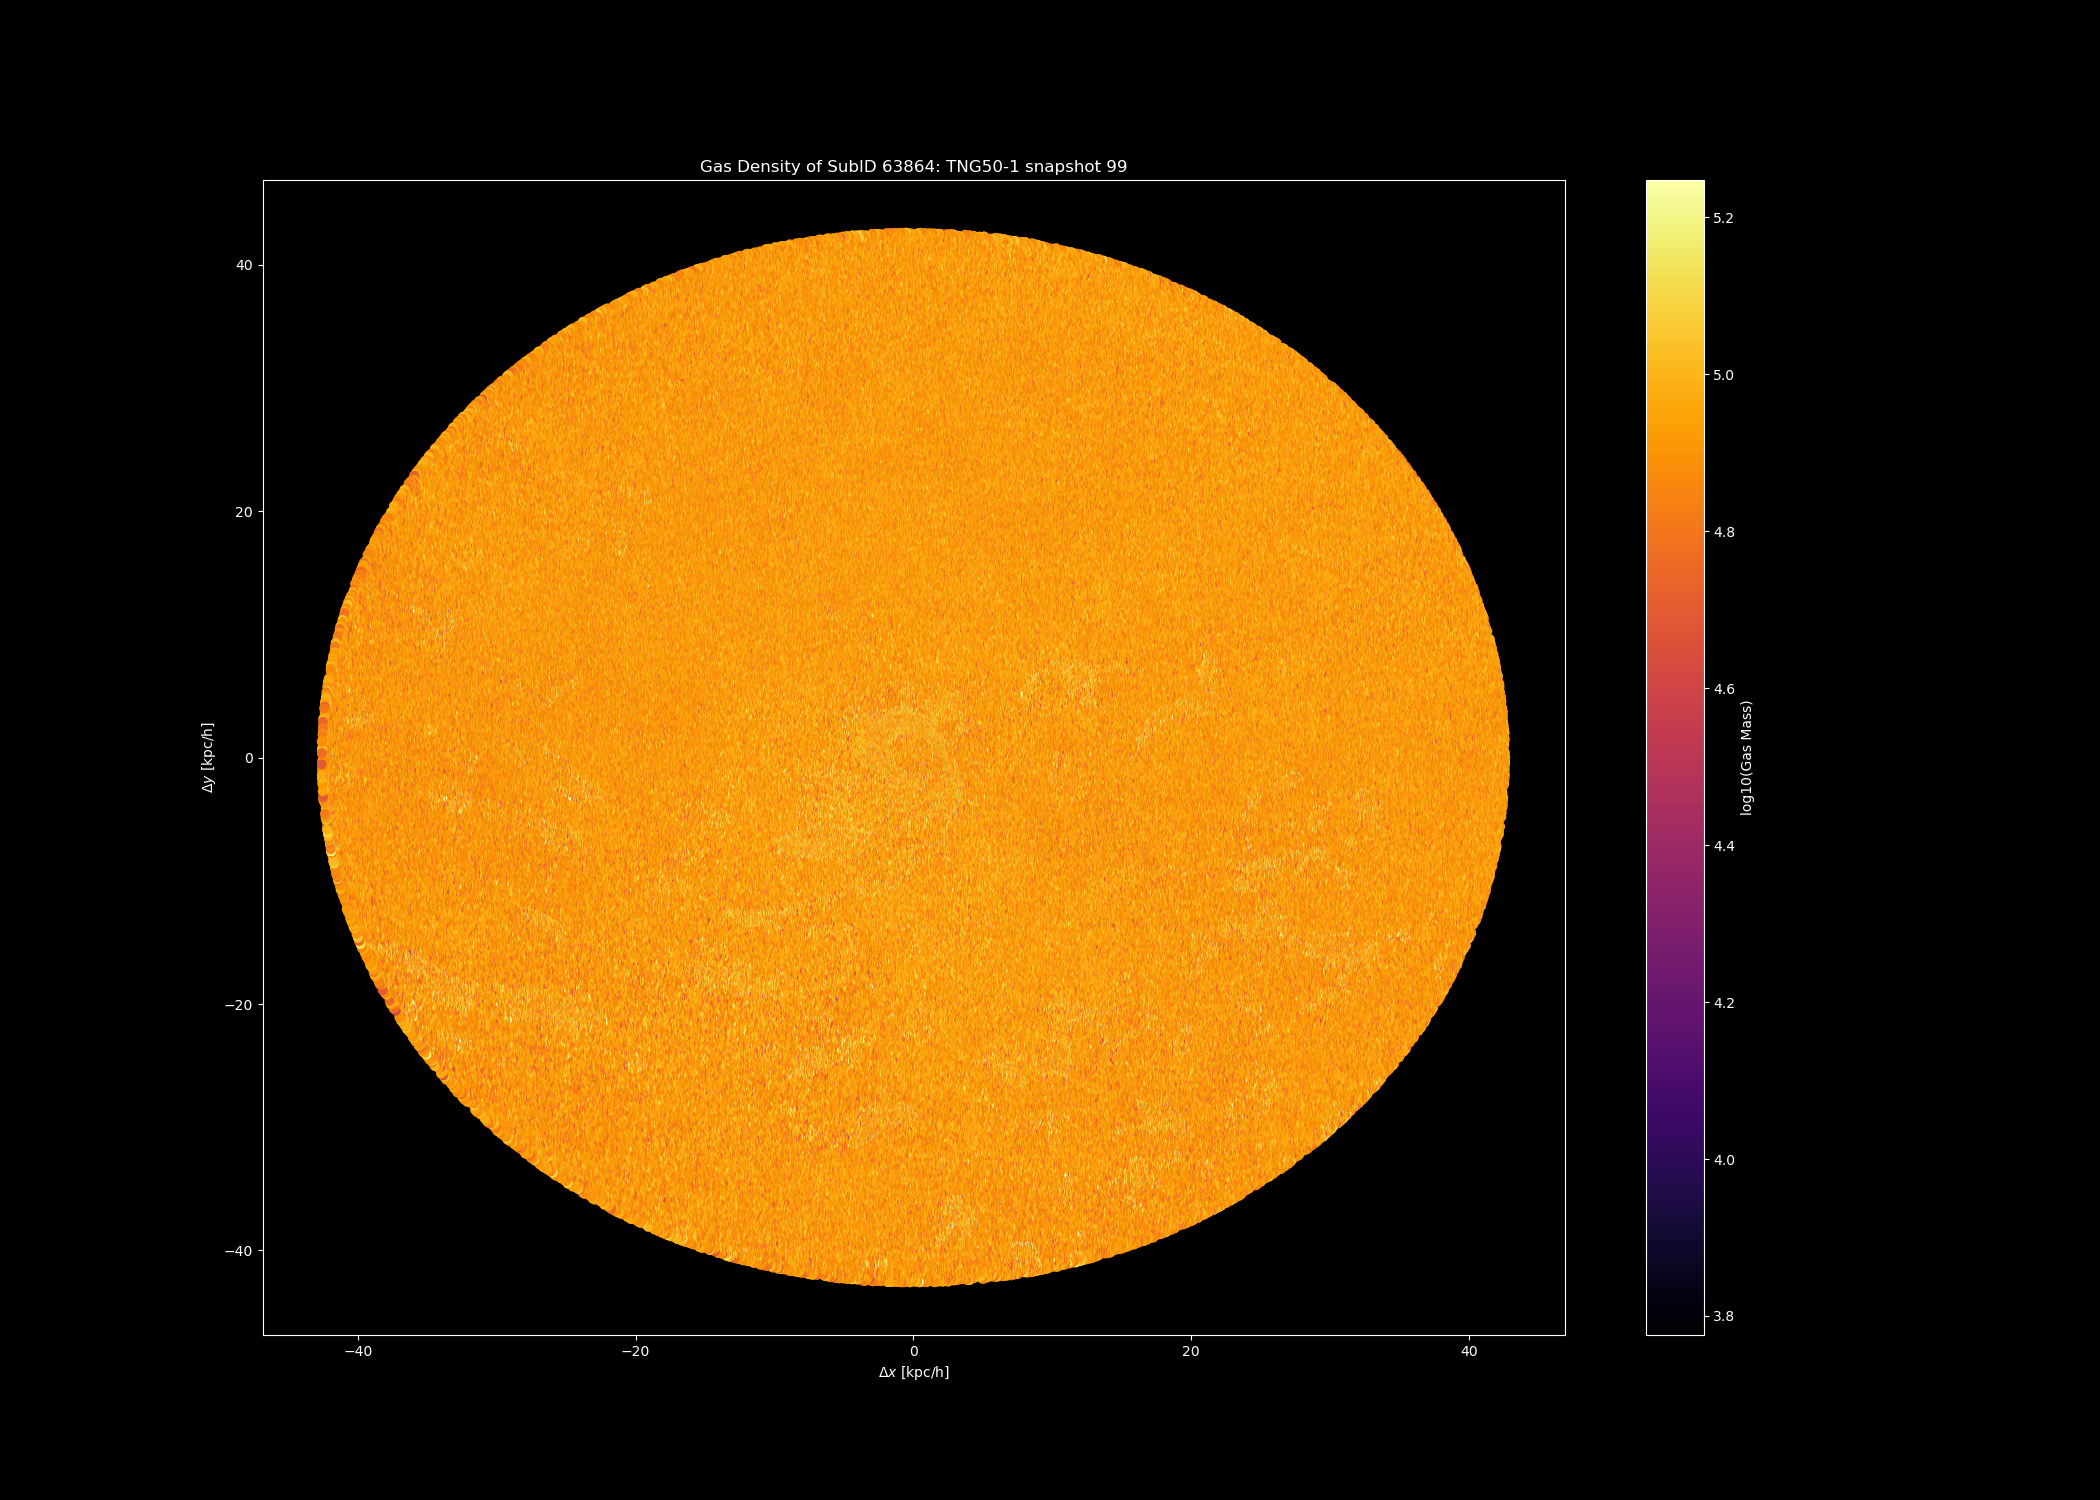
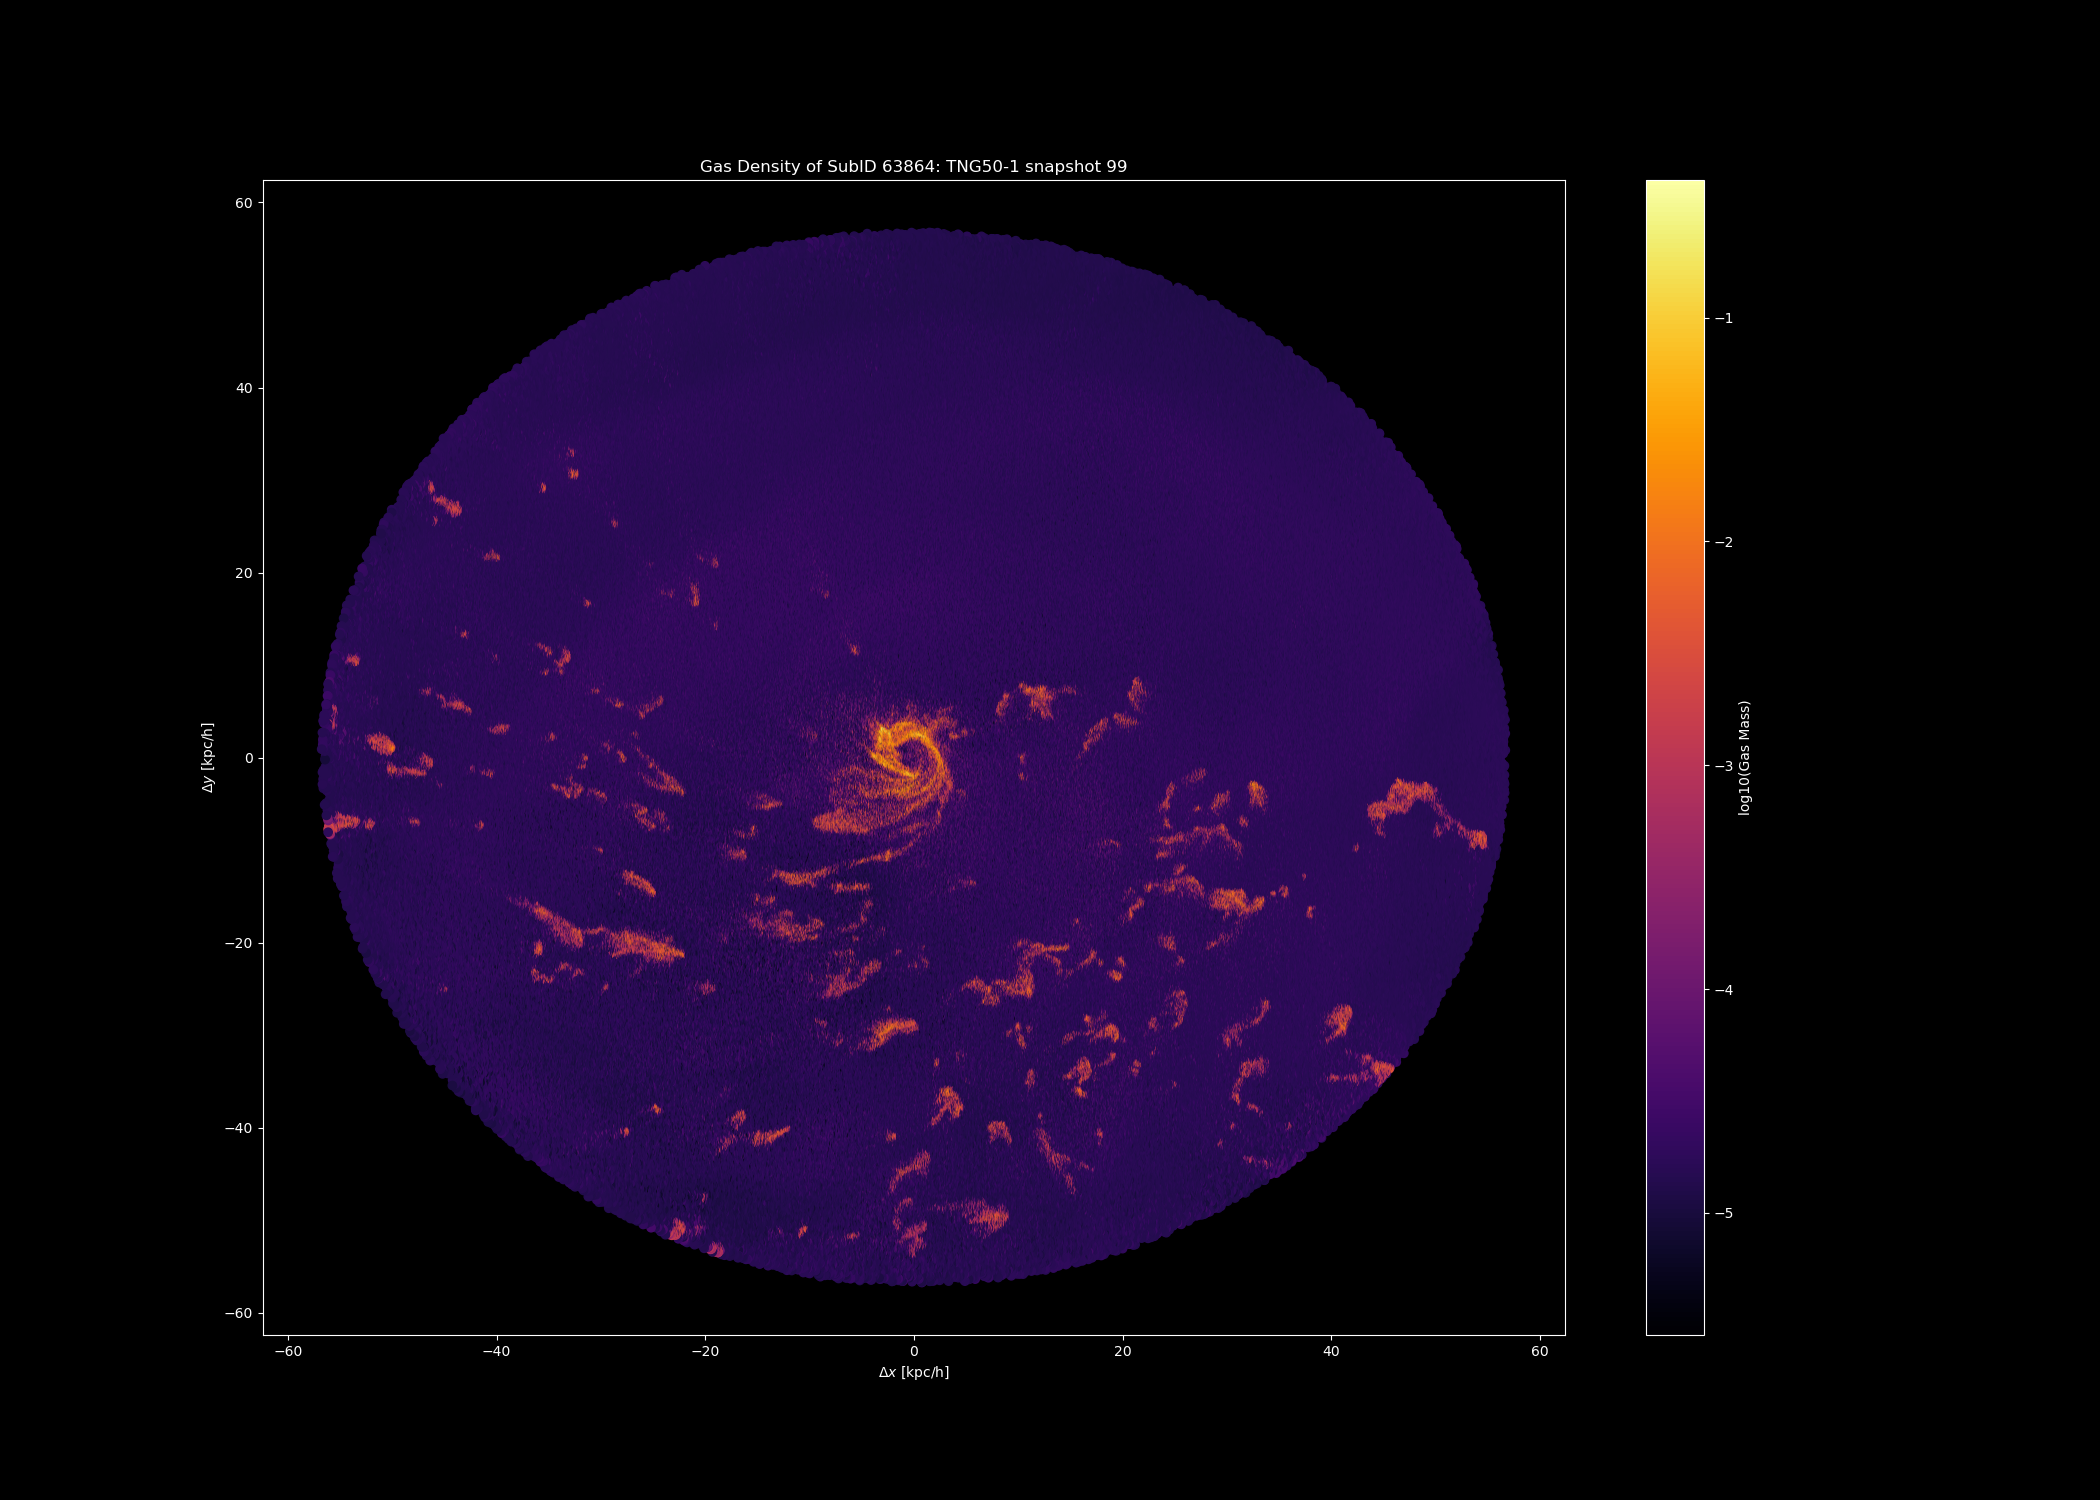
density plots done

diff --git a/class_il/classrad.py b/class_il/classrad.py
@@ -72,7 +72,7 @@ class galaxy:
         # [units: proper kpc] (quantified in 3D)
         
         # Load all the relevant particle level info
-        gas = il.snapshot.loadSubhalo(basePath, snapID, subID, 'gas', fields=['Coordinates', 'Masses', 'Velocities', 'StarFormationRate','GFM_Metallicity'])
+        gas = il.snapshot.loadSubhalo(basePath, snapID, subID, 'gas', fields=['Coordinates', 'Masses','Density','Velocities', 'StarFormationRate','GFM_Metallicity'])
         # dimensions and units (see https://www.tng-project.org/data/docs/specifications/#parttype0):
         # Coordinates (N,3) ckpc/h   where ckps stands for co-moving kpc
         # Masses      (N)   10**10 Msun/h
@@ -88,7 +88,7 @@ class galaxy:
         self.pgas_vel   = self.pgas_vel * self.conv_kms2kpcyr    #Convert to kpc/yr
         self.pgas_sfr   = gas['StarFormationRate'][hcoldgas]
         self.pgas_met   =gas['GFM_Metallicity'][hcoldgas]
-        
+        self.pgas_dens = gas['Density'][hcoldgas]
         # Load all stellar particle data
         stars = il.snapshot.loadSubhalo(basePath, snapID, subID, 'stars', fields=['Coordinates', 'Masses', 'Velocities','GFM_Metallicity' ])
         hstar = np.where( (np.sum((stars['Coordinates']/hubble / (1. + redshift) - self.centre[None,:])**2, axis=1) < crit_dist**2) )[0]
@@ -148,21 +148,21 @@ class galaxy:
         self.pstar_rad_len  = np.sqrt(self.pstar_coo[:,0]**2+self.pstar_coo[:,1]**2)
     def dataframegen(self,type):
         if(type=='gas'):
-            df=pd.DataFrame({"x": self.pgas_coo[:,0], "y":self.pgas_coo[:,1],"z":self.pgas_coo[:,2], "rad":self.pgas_rad_len,"m":self.pgas_m,"met": 10e9*self.pgas_met})
+            df=pd.DataFrame({"x": self.pgas_coo[:,0], "y":self.pgas_coo[:,1],"z":self.pgas_coo[:,2], "rad":self.pgas_rad_len,"m":self.pgas_dens,"met": self.pgas_met})
         elif(type=='star'):
-            df=pd.DataFrame({"x": self.pstar_coo[:,0], "y":self.pstar_coo[:,1],"z":self.pstar_coo[:,2], "rad":self.pstar_rad_len,"m":self.pstar_m,"met": 10e9*self.pstar_met})
+            df=pd.DataFrame({"x": self.pstar_coo[:,0], "y":self.pstar_coo[:,1],"z":self.pstar_coo[:,2], "rad":self.pstar_rad_len,"m":self.pstar_m,"met":self.pstar_met})
         self.df = df
         return df
     def gas_plot(self,annuli_pc):
         
         annul1= annuli_pc*self.crit_dist
         df_valid = self.df[self.df['rad']<annul1]
-        df_valid =df_valid.round(4)
+        df_valid =df_valid.round(1)
         df_valid = df_valid.groupby(['x','y'])['m'].sum().reset_index()
         plt.figure(figsize=(21,15))
         plt.style.use('dark_background')
-        plt.hist2d(df_valid['x'],df_valid['y'], weights=-np.log10(df_valid['m']),bins=[500,500],cmap = 'inferno')#,vmin=-np.log10(min(df_valid['m'])),vmax = -np.log10(max(df_valid['m'])))
-        #plt.scatter(-df_valid['x'],-df_valid['y'],c=(np.log10(df_valid['m'])),cmap='inferno', vmin=np.log10(min(df_valid['m'])), vmax = 0.95*np.log10(max(df_valid['m'])))
+        #plt.hist2d(df_valid['x'],df_valid['y'], weights=-np.log10(df_valid['m']),bins=[500,500],cmap = 'inferno')#,vmin=-np.log10(min(df_valid['m'])),vmax = -np.log10(max(df_valid['m'])))
+        plt.scatter(-df_valid['x'],-df_valid['y'],c=np.log10(df_valid['m']),cmap='inferno', vmin=np.log10(min(df_valid['m'])), vmax = np.log10(max(df_valid['m'])))
             #plt.plot(critical_radius,zeros,'g+', markersize=10,label='critical radius')
         plt.xlabel('$\Delta x$ [kpc/h]')
         plt.ylabel('$\Delta y$ [kpc/h]')
@@ -220,7 +220,7 @@ class visualisation:
                 df_valid = df_valid.groupby(['x','y'])['m'].sum().reset_index()
                 plt.figure(figsize=(21,15))
                 plt.style.use('dark_background')
-                plt.scatter(-df_valid['x'],-df_valid['y'],c=(np.log10(df_valid['m'])),cmap='inferno', vmin=np.log10(min(df_valid['m'])), vmax = 0.95*np.log10(max(df_valid['m'])))
+                plt.scatter(-df_valid['x'],-df_valid['y'],c=(np.log10(df_valid['m'])),cmap='inferno', vmin=(min(np.log10(df_valid['m']))),vmax =(max(np.log10(df_valid['m']))))
                 plt.xlabel('$\Delta x$ [kpc/h]')
                 plt.ylabel('$\Delta y$ [kpc/h]')
                 plt.colorbar(label='log10(Gas Mass)')
@@ -232,10 +232,10 @@ class visualisation:
                 df_valid = df.round(decp)
                 annul1= annuli_pc*self.crit_dist
                 df_valid = df[df['rad']<annul1]
-                df_valid = df_valid.groupby(['x','y'])['m'].sum().reset_index()
+                df_valid = df_valid.groupby(['x','y'])['met'].sum().reset_index()
                 plt.figure(figsize=(21,15))
                 plt.style.use('dark_background')
-                plt.scatter(-df_valid['x'],-df_valid['y'],c=(df_valid['met']),cmap='inferno', vmin=min(df_valid['m']), vmax = max(df_valid['m']))
+                plt.scatter(-df_valid['x'],-df_valid['y'],c=(df_valid['met']),cmap='inferno', vmin=1.1*min(df_valid['m']),vmax= max(df_valid['m']))
                 plt.xlabel('$\Delta x$ [kpc/h]')
                 plt.ylabel('$\Delta y$ [kpc/h]')
                 plt.colorbar(label='log10(Gas Metallicity)')
@@ -245,7 +245,7 @@ class visualisation:
                 plt.close()
 
         elif(type=='stars'):
-            self.df = self.df_s
+            df = self.df_s
             if (quant=='mass'):
                 df_valid = df.round(decp)
                 annul1= annuli_pc*self.crit_dist
@@ -281,7 +281,7 @@ class visualisation:
     def metgrad (self,type,decp, annuli_pc):
         if (type=='gas'):
             df = self.df_g
-            df_valid = self.df.round(decp)
+            df_valid = self.df.round()
             annul1= annuli_pc*self.crit_dist
             df_valid = df[df['rad']<annul1]
             df_valid = df_valid.groupby(['x','y'])['m'].sum().reset_index()
@@ -325,15 +325,17 @@ massive_list=[0, 63864, 96762, 117250, 143880, 184931, 198182, 208811, 220595, 2
 #print(len(sub1.pgas_met))
 
 #for i in massive_ids:
-sub1= galaxy('TNG50-1',99,63864)
+sub1= galaxy('TNG50-1',99,242788)
 sub1.galcen()
 sub1.ang_mom_align('gas')
 sub1.radial_coo()
 dfg = sub1.dataframegen('gas')
 dfs = sub1.dataframegen('star')
+#sub1.gas_plot(0.5)
+#dfg.to_csv('inspect.csv')
 
 sub1plot = visualisation(dfg,dfs,sub1.subID, sub1.snapID, sub1.simID, sub1.crit_dist)
-sub1plot.visual('gas','mass',0,0.75)
+sub1plot.visual('gas','mass',8,1)
 
 #print(min(sub1.pstar_coo[:,0]))
 #print(max(sub1.pstar_coo[:,0]))
